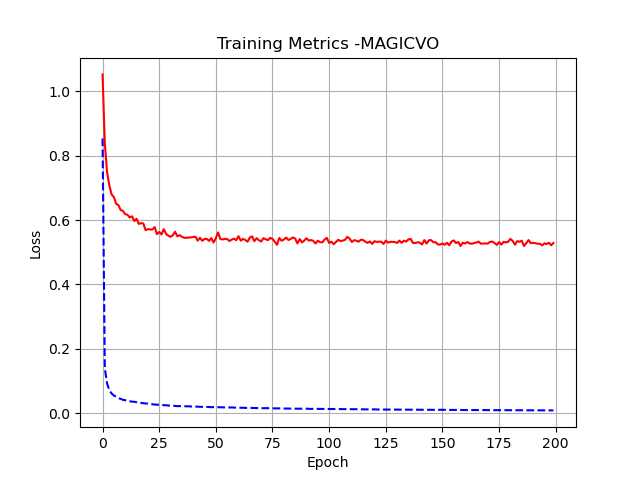
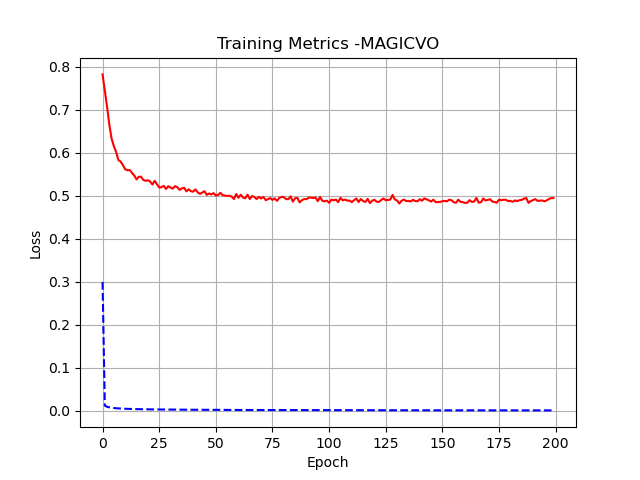
MagicVO

diff --git a/main.py b/main.py
@@ -126,12 +126,12 @@ def main():
     config = {
         'datapath': 'D:\EduardoTayupanta\Documents\Librerias\dataset',
         'bsize': 8,
-        # 'lr': 0.001,
-        'lr': 0.0001,
+        'lr': 0.001,
+        # 'lr': 0.0001,
         'train_iter': 200,
         'checkpoint_path': './checkpoints',
         'k': 100,
-        'train': 'poseconvgru'
+        'train': 'deepvo'
     }
 
     flownet = FlowNet()

diff --git a/test.py b/test.py
@@ -122,7 +122,7 @@ def main():
         'lr': 0.001,  # deepvo - magicvo
         # 'lr': 0.0001, # poseconvgru
         'checkpoint_path': './checkpoints',
-        'test': 'deepvo',
+        'test': 'magicvo',
         'sequence': '03'
     }
 
